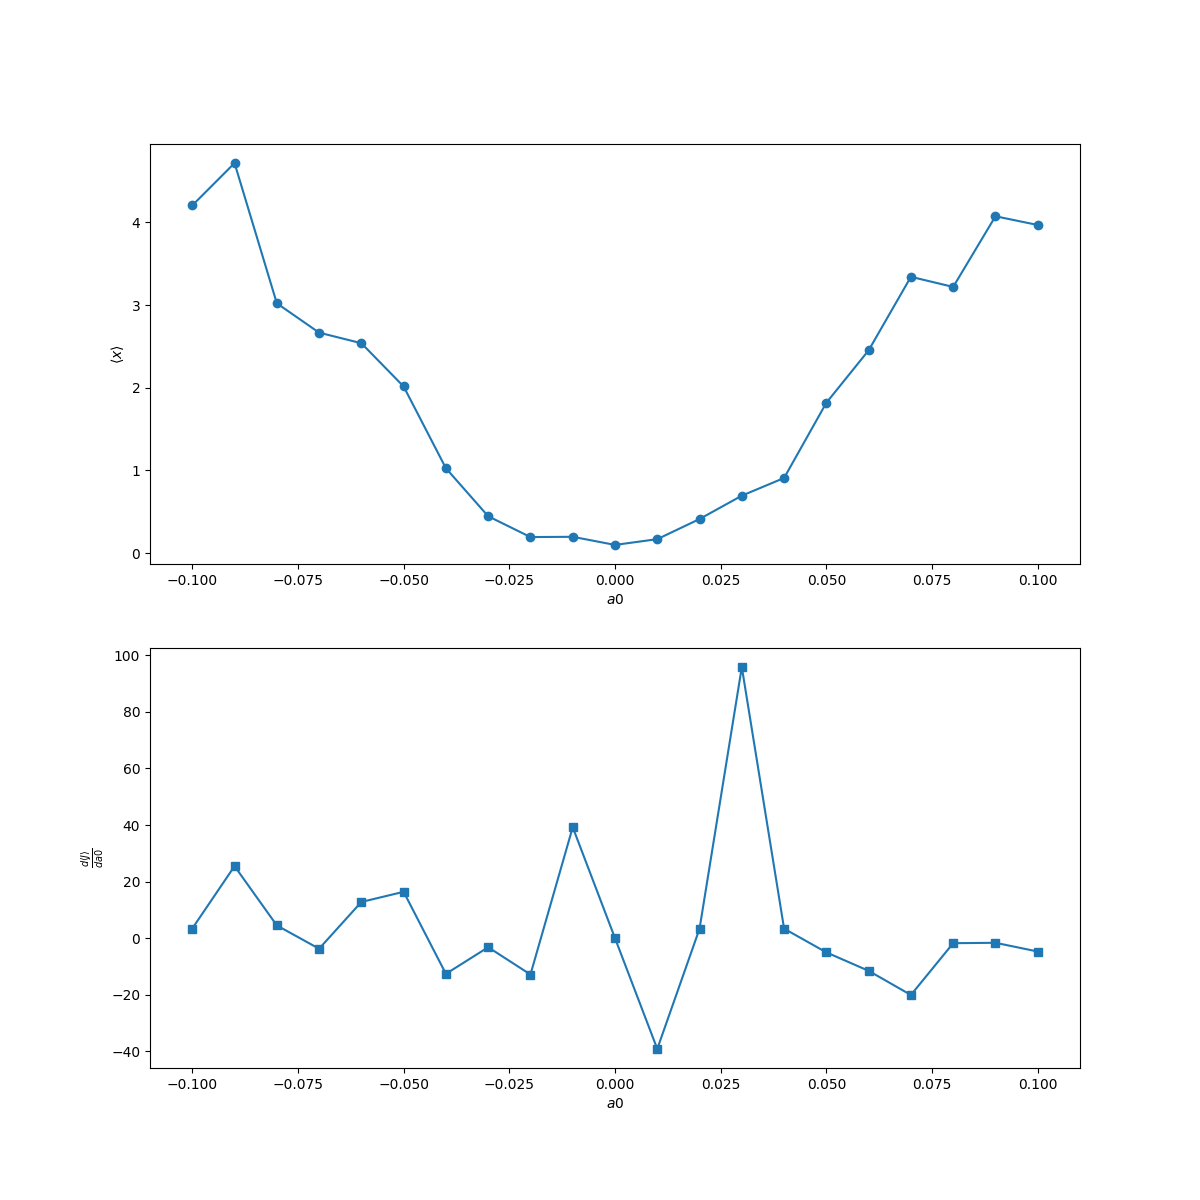
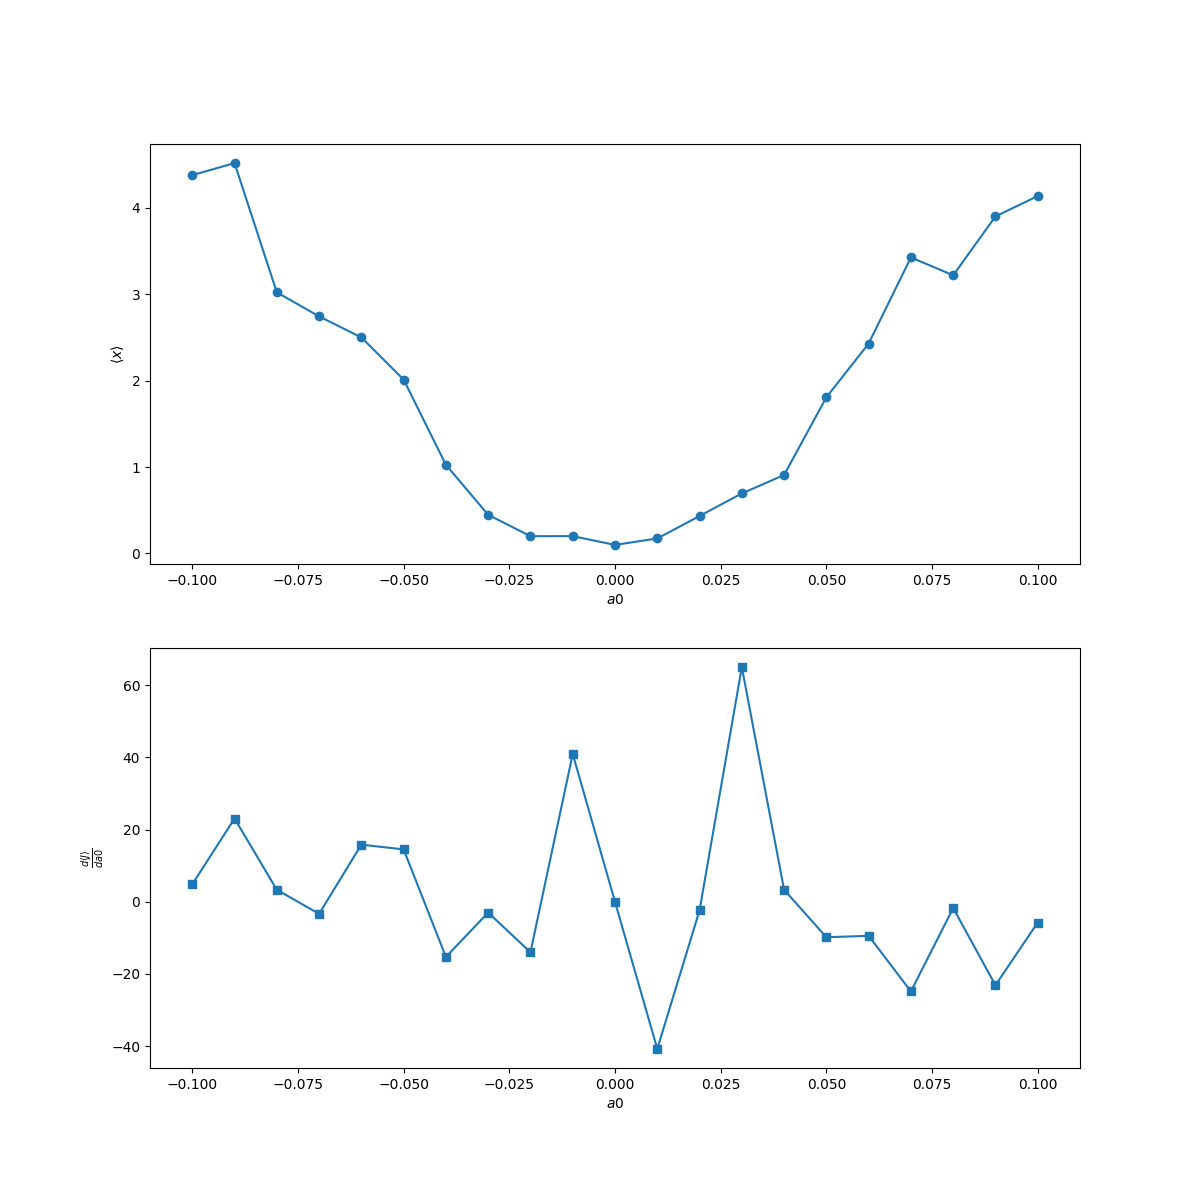
update segment num

diff --git a/app_gc.py b/app_gc.py
@@ -12,7 +12,7 @@ a1_global = 1.0
 iota_global = 0.5
 lam_global = 0.1
 G_global = 1.0
-dt = 0.01
+dt = 0.001
 
 precomputed_derivatives = None
 precomputed_spatial_derivatives = None
@@ -152,9 +152,9 @@ def Euler(u, w, vstar, par, value):
     return uwvs_new
 
 def main():
-    nseg = 50
+    nseg = 100
     T_seg = 2
-    nseg_ps = 50
+    nseg_ps = 100
     nc = 3
     nus = 2
     
@@ -162,9 +162,9 @@ def main():
     precomputed_derivatives = compute_derivatives()
     precomputed_spatial_derivatives = compute_spatial_derivatives()
     
-    par = "a0"
-    par_lb = -0.1
-    par_ub = 0.1
+    par = "a1"
+    par_lb = 0.9
+    par_ub = 1.1
     step_size = 0.01
     num_steps = int(round((par_ub - par_lb) / step_size)) + 1
     par_arr = np.linspace(par_lb, par_ub, num_steps)

diff --git a/nilss.py b/nilss.py
@@ -139,7 +139,7 @@ def nilss(dt, nseg, T_seg, nseg_ps, u0, nus, par, s, integrator, fJJu):
     for iseg in range(nseg):
         for i in (0, -1):
             ksi[iseg,i] = np.dot(v[iseg, i], f[iseg, i]) / np.dot(f[iseg, i], f[iseg, i])
-        print(abs(ksi[iseg, 0]))
+        # print(abs(ksi[iseg, 0]))
         assert abs(ksi[iseg, 0]) <= 1e-5 
 
 
